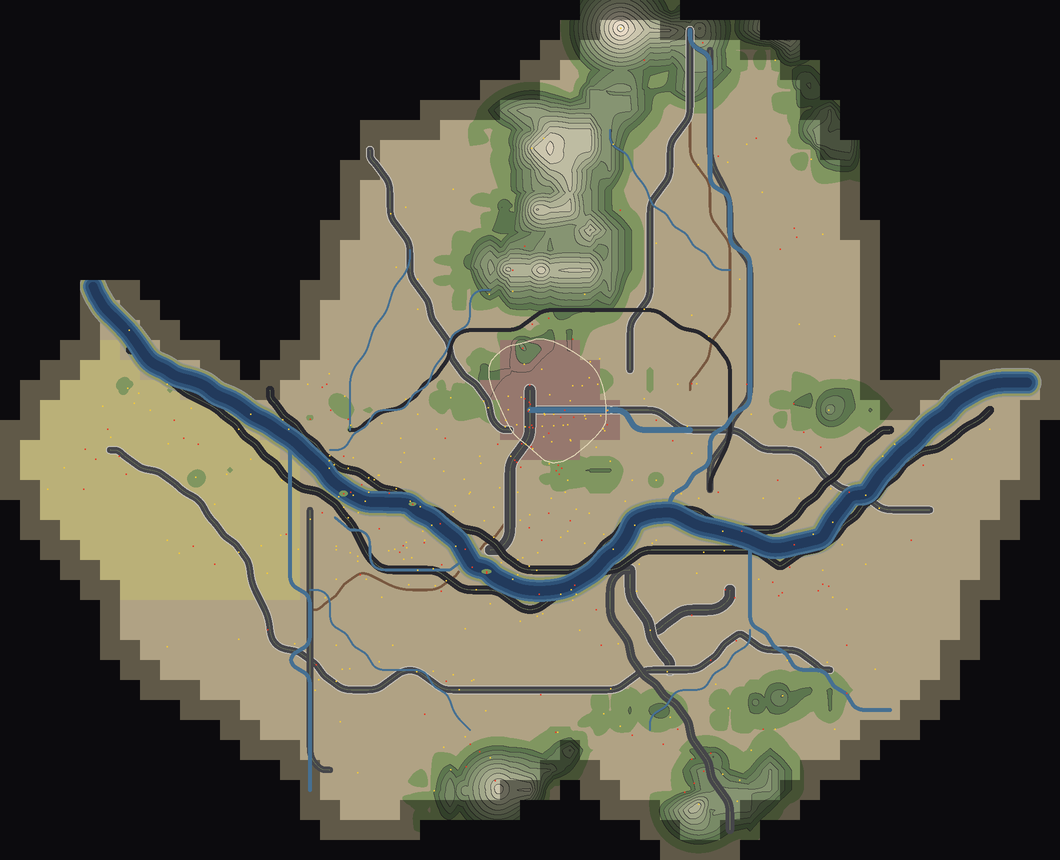
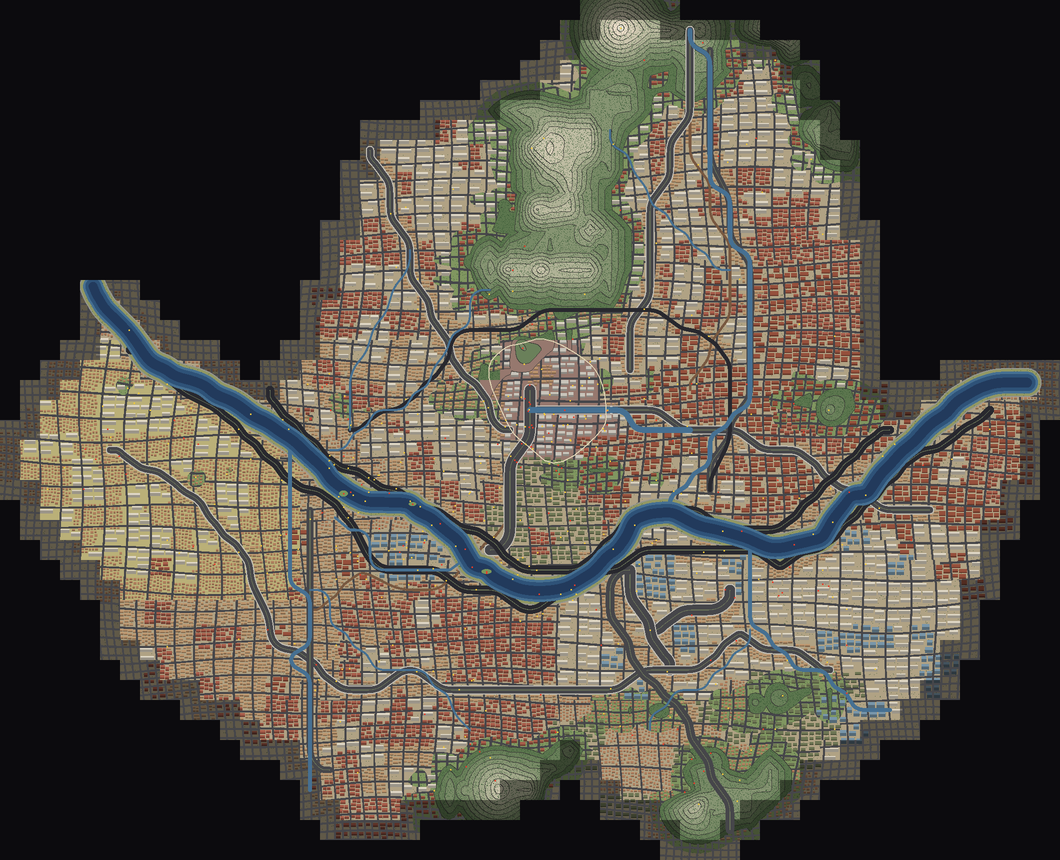
1-1 심리스 월드(2): 블록·필지 — 휜 동네 길, 권역별 양식 구역, 건물 발자국 빽빽이 채우기
- 동네 길: 저주파 변위로 휜 격자(권역별 간격, 언덕은 0.6배·더 휨), 4타일
- 양식 구역 48타일 칸: 권역 비율(SD-08 §7 지형·분위기에서 읽음)로 빌라·아파트·상가·업무·공장·관청·기지·주택,
  간선도로 옆 띠는 상가, 여의도는 업무 지구
- 2칸 간격으로 훑으며 발자국을 넣고 골목 폭만큼 띄움 — 1만 545동, 산지·구릉 숲 나무
- 견본 44(R01 빌라 골목 · R07 판상형 아파트), 43 갱신

Claude-Session: https://claude.ai/code/session_01AB2Pu8KtgEfTfn2XzBJpW9

diff --git a/tools/pipeline/world_bake.py b/tools/pipeline/world_bake.py
@@ -247,6 +247,130 @@ def bake(src):
             "play": play, "band": band}
 
 
+# ④ 블록·필지(SD-16 §6.6 프리팹 층의 자리): 동네 길로 블록을 나누고 권역 성격대로 건물 발자국을 놓는다.
+# 건물 양식(style): 빌라·아파트(판상형)·상가·업무(유리)·공장·관청(석조)·기지(군)·주택(평야)
+STYLES = ["villa", "apt", "shop", "office", "factory", "gov", "base", "house"]
+# 권역별 양식 비율(SD-08 §7 지형·분위기·지면 팔레트에서 읽은 값 — 구현 정합)
+MIX = {"R01": {"villa": 62, "apt": 14, "shop": 18, "house": 6}, "R02": {"factory": 30, "shop": 25, "villa": 25, "apt": 12, "office": 8},
+       "R03": {"villa": 40, "apt": 20, "shop": 20, "factory": 20}, "R04": {"villa": 30, "house": 40, "shop": 30},
+       "R05": {"gov": 70, "shop": 30}, "R06": {"base": 55, "villa": 25, "shop": 20}, "R07": {"apt": 55, "office": 20, "shop": 20, "villa": 5},
+       "R08": {"villa": 40, "factory": 25, "apt": 20, "shop": 15}, "R09": {"apt": 48, "villa": 40, "shop": 12},
+       "R10": {"house": 55, "apt": 25, "villa": 20}, "R11": {"base": 50, "house": 50}, "HR": {"house": 100}}
+# 양식 → (블록 안 간격 길 폭, 건물 가로 범위, 세로(지붕+정면) 범위, 정면 단 수 범위)
+FORM = {"villa": (1, (7, 11), (6, 8), (3, 4)), "apt": (3, (16, 28), (8, 9), (5, 6)), "shop": (1, (5, 10), (5, 6), (2, 3)),
+        "office": (3, (10, 16), (10, 12), (6, 6)), "factory": (2, (10, 18), (7, 10), (2, 3)), "gov": (3, (10, 16), (8, 10), (3, 4)),
+        "base": (3, (8, 14), (6, 8), (2, 2)), "house": (2, (4, 6), (4, 5), (1, 2))}
+GRID = {"R01": 30, "R02": 36, "R03": 34, "R04": 30, "R05": 40, "R06": 44, "R07": 48, "R08": 34, "R09": 36, "R10": 44, "R11": 44, "HR": 40}
+YEOUIDO = (700, 1050, 930, 1145)                                         # 섬 상자: 여의도는 업무 지구(SD-08 §7.2)
+
+
+def wave(shape, rng, scale, amp, n=3):
+    """부드러운 저주파 잡음(사인 합): 길 격자를 휘게 하는 변위장"""
+    ys_, xs_ = np.mgrid[0:shape[0], 0:shape[1]].astype(np.float32)
+    out = np.zeros(shape, np.float32)
+    for k in range(n):
+        f = (k + 1) / scale
+        a1, a2, p1, p2 = rng.random(4) * np.pi * 2
+        out += np.sin(xs_ * f * np.cos(a1) + ys_ * f * np.sin(a1) + p1) * np.cos(xs_ * f * np.sin(a2) - ys_ * f * np.cos(a2) + p2)
+    return out * amp / n
+
+
+def city(r, src, seed=4120):
+    kind, use, region, level = r["kind"], r["use"], r["region"], r["level"]
+    rng = np.random.default_rng(seed)
+    buildable = (kind == 1) & ((use == 0) | (use == 1) | (use == 3) | (use == 4)) & (level == 0)
+    ys_, xs_ = np.mgrid[0:H, 0:W].astype(np.float32)
+    # 동네 길: 휜 격자. 언덕(구릉)일수록 더 휘고 촘촘하다(봉천식 계단 골목). 간격은 권역별(GRID), 언덕은 0.6배
+    wx = wave((H, W), rng, 320.0, 34.0) + np.where(use == 1, wave((H, W), rng, 90.0, 12.0), 0)
+    wy = wave((H, W), rng, 320.0, 34.0) + np.where(use == 1, wave((H, W), rng, 90.0, 12.0), 0)
+    gmap = np.zeros((H, W), np.float32)
+    for code in REG_CODES[1:]:
+        gmap[region == REG_CODES.index(code)] = GRID[code]
+    gmap = np.where(use == 1, gmap * 0.6, gmap).clip(16, 60)
+    u = (xs_ + wx) / gmap
+    v = (ys_ + wy) / gmap
+    du = np.abs(u - np.round(u)) * gmap
+    dv = np.abs(v - np.round(v)) * gmap
+    street = ((du < 2.0) | (dv < 2.0)) & buildable                       # 동네 길 4타일(2차로)
+    alley = ((np.abs(u * 2 - np.round(u * 2)) * gmap / 2 < 1.0) | (np.abs(v * 2 - np.round(v * 2)) * gmap / 2 < 1.0)) & buildable & ~street
+    kind[street] = 7
+    buildable &= ~street
+    # 양식 구역: 48타일 칸마다 권역 비율로 하나(이웃 칸끼리 이어지게 저주파 잡음으로 고른다), 간선도로 옆 띠는 상가
+    zone = np.full((H, W), -1, np.int8)
+    zc = 48
+    znoise = wave(((H + zc - 1) // zc, (W + zc - 1) // zc), rng, 3.0, 1.0)
+    for cy in range((H + zc - 1) // zc):
+        for cx in range((W + zc - 1) // zc):
+            sl = (slice(cy * zc, (cy + 1) * zc), slice(cx * zc, (cx + 1) * zc))
+            rc = np.bincount(region[sl].ravel(), minlength=len(REG_CODES))
+            rc[0] = 0
+            if rc.sum() == 0:
+                continue
+            code = REG_CODES[int(rc.argmax())]
+            mix = MIX[code]
+            names = list(mix)
+            cum = np.cumsum(np.array(list(mix.values()), float))
+            q = (znoise[cy, cx] * 0.5 + 0.5) * 0.6 + rng.random() * 0.4
+            st = names[int(np.searchsorted(cum / cum[-1], min(q, 0.999)))]
+            if YEOUIDO[0] <= cx * zc + zc // 2 <= YEOUIDO[2] and YEOUIDO[1] <= cy * zc + zc // 2 <= YEOUIDO[3]:
+                st = "office"
+            zone[sl] = STYLES.index(st)
+    major = (kind == 7) & ~street
+    near = np.zeros((H, W), bool)
+    for dy in range(-12, 13, 4):
+        for dx in range(-12, 13, 4):
+            near |= np.roll(np.roll(major, dy, 0), dx, 1)
+    shopband = near & np.isin(zone, [STYLES.index("villa"), STYLES.index("house"), STYLES.index("apt")])
+    zone[shopband] = STYLES.index("shop")
+    # 빽빽이 채우기: 2칸 간격으로 훑으며 그 자리 양식의 발자국이 들어가면 놓는다(골목 폭만큼 띄움)
+    occ = ~buildable.copy()
+    bid = np.zeros((H, W), np.int32)
+    blds = []
+    order = rng.permutation(4)
+    for oy in (order[0] % 2, 1 - order[0] % 2):
+        for y in range(oy, H - 4, 2):
+            row = occ[y]
+            xs_free = np.nonzero(~row)[0]
+            last = -99
+            for x in xs_free:
+                if x < last or occ[y, x]:
+                    continue
+                z = zone[y, x]
+                if z < 0:
+                    continue
+                st = STYLES[z]
+                gap, wr, hr, fr = FORM[st]
+                bw = int(rng.integers(wr[0], wr[1] + 1))
+                bh = int(rng.integers(hr[0], hr[1] + 1))
+                x1, y1 = min(x + bw, W), min(y + bh, H)
+                win = occ[y:y1, x:x1]
+                if win.any():
+                    free_w = int(np.argmax(win.any(0))) if win.any(0).any() else bw
+                    if free_w < wr[0] or occ[y:y1, x:x + free_w].any():
+                        continue
+                    x1 = x + free_w
+                blds.append({"x": int(x), "y": int(y), "w": int(x1 - x), "h": int(y1 - y), "style": st,
+                             "floors": int(rng.integers(fr[0], fr[1] + 1)), "seed": int(rng.integers(1 << 30))})
+                bid[y:y1, x:x1] = len(blds)
+                g = gap if st != "apt" else int(rng.integers(6, 9))      # 아파트는 동 사이(앞뒤) 간격이 넓다
+                occ[max(0, y - gap):min(H, y1 + g), max(0, x - gap):min(W, x1 + gap)] = True
+                last = x1 + gap
+    r["bid"] = bid
+    r["street"] = street
+    r["alley"] = alley
+    r["zone"] = zone
+    r["buildings"] = blds
+    # 나무: 산지·구릉 숲(SD-16 §6.7 '숲은 마른 침엽 오브젝트 밀도'), 빈 땅 드문드문
+    tree = np.zeros((H, W), bool)
+    rnd = rng.random((H, W))
+    forest = (kind == 1) & ((use == 1) | (use == 2)) & (bid == 0) & ~alley
+    tree |= forest & (rnd < np.where(use == 2, 0.10, 0.04))
+    tree |= (kind == 1) & (use == 0) & (bid == 0) & ~alley & (rnd < 0.01)
+    tree |= (kind == 5) & (rnd < 0.02)
+    r["tree"] = tree
+    return r
+
+
 def preview(r, src, path, scale=1):
     from PIL import Image
     kind, use, level, hgt = r["kind"], r["use"], r["level"], r["hgt"]
@@ -272,6 +396,15 @@ def preview(r, src, path, scale=1):
     img[kind == 11] = (226, 214, 182)
     img[kind == 12] = (120, 150, 92)
     img[r["elevated"] & (kind == 7)] = (40, 40, 46)
+    if "bid" in r:                                                       # 건물: 양식 색 + 아래 정면 띠
+        col = {"villa": (168, 92, 74), "apt": (222, 214, 196), "shop": (190, 150, 110), "office": (120, 150, 170),
+               "factory": (150, 80, 60), "gov": (200, 196, 186), "base": (110, 118, 84), "house": (180, 130, 96)}
+        for b in r["buildings"]:
+            c = np.array(col[b["style"]])
+            img[b["y"]:b["y"] + b["h"], b["x"]:b["x"] + b["w"]] = c
+            f = b["y"] + b["h"] - min(b["floors"], b["h"] - 1)
+            img[f:b["y"] + b["h"], b["x"]:b["x"] + b["w"]] = (c * 0.7).astype(np.uint8)
+        img[r["tree"]] = (52, 86, 50)
     edge = np.zeros((H, W), bool)                                         # 단 경계(암벽)
     edge[:, 1:] |= level[:, 1:] != level[:, :-1]
     edge[1:, :] |= level[1:, :] != level[:-1, :]
@@ -292,10 +425,15 @@ def preview(r, src, path, scale=1):
 def main():
     src = json.load(open(SRC, encoding="utf-8"))
     r = bake(src)
+    city(r, src)
     kind = r["kind"]
     n = {k: int((kind == v).sum()) for k, v in (("땅", 1), ("깊은 물", 2), ("중간 물", 3), ("얕은 물", 4), ("둔치", 5), ("제방", 6),
                                                 ("차도", 7), ("보도", 8), ("철로", 10), ("성곽", 11), ("섬", 12))}
     print("월드 래스터 %d×%d: %s · 최고 단 %d · 최고 %dm" % (W, H, n, int(r["level"].max()), int(r["hgt"].max())))
+    cnt = {}
+    for b in r["buildings"]:
+        cnt[b["style"]] = cnt.get(b["style"], 0) + 1
+    print("건물 %d동 %s · 나무 %d그루" % (len(r["buildings"]), cnt, int(r["tree"].sum())))
     out = None
     for i, a in enumerate(sys.argv):
         if a == "--preview" and i + 1 < len(sys.argv):
